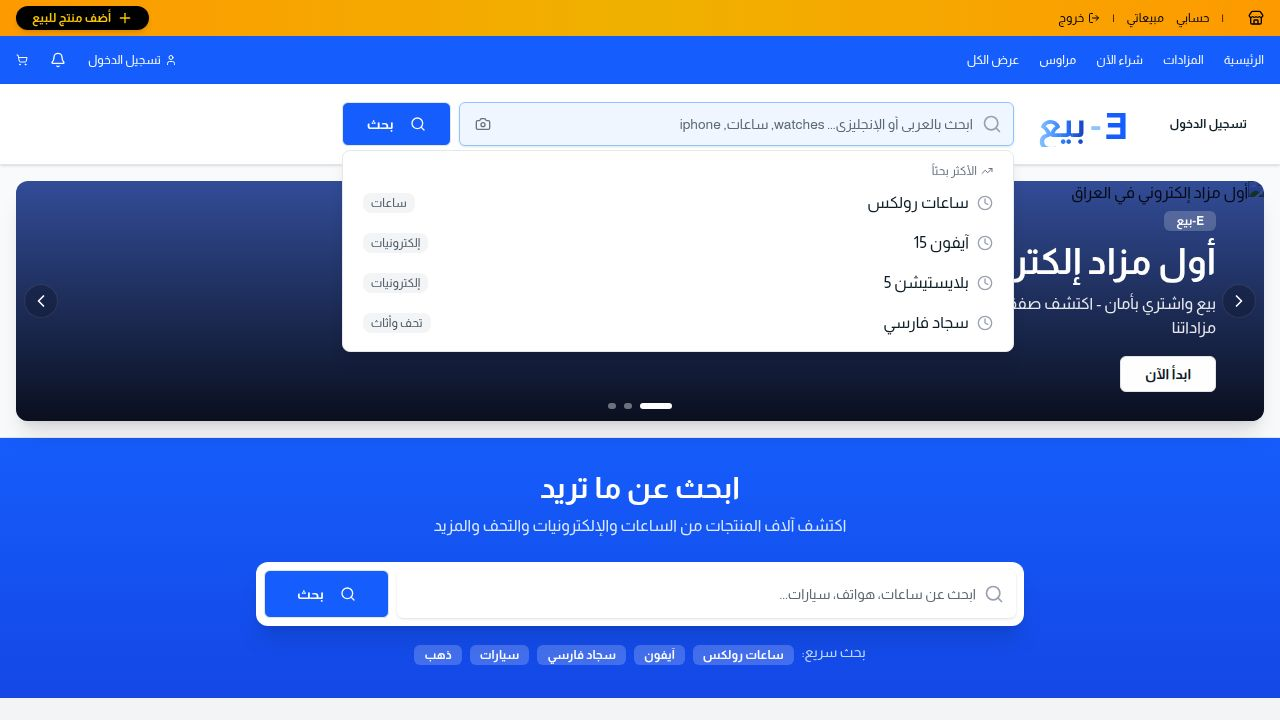
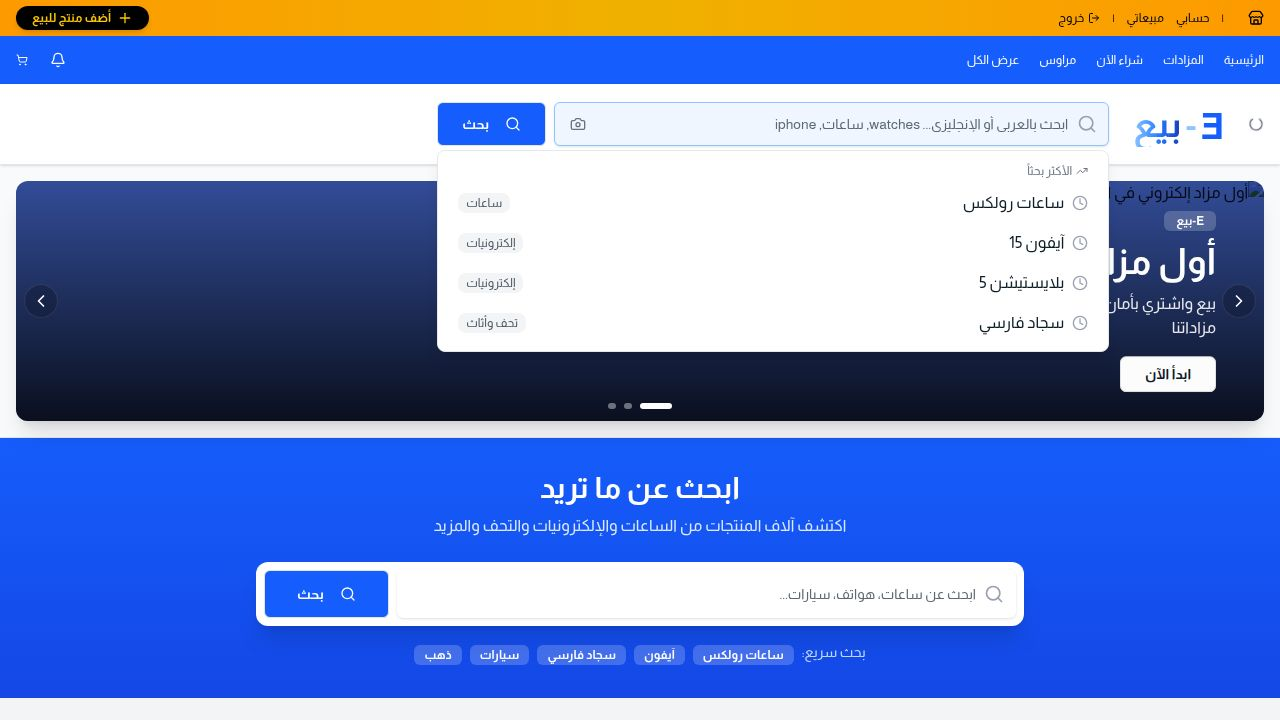
Make links to seller items live and improve search relevance
Update product page to link seller names to their item listings, add relevance-based sorting to search results, and display seller store information on the search page when viewing a specific seller's items.

Replit-Commit-Author: Agent
Replit-Commit-Session-Id: 0b8878ef-5561-4639-8c50-19dc5eeba3c8
Replit-Commit-Checkpoint-Type: intermediate_checkpoint
Replit-Commit-Event-Id: 922a6ef3-4065-40b5-9841-d5baf874f9f7
Replit-Commit-Screenshot-Url: https://storage.googleapis.com/screenshot-production-us-central1/2e607e21-532b-495b-8d75-179bb2556e64/0b8878ef-5561-4639-8c50-19dc5eeba3c8/ImRHm7c
Replit-Helium-Checkpoint-Created: true

diff --git a/client/src/pages/search.tsx b/client/src/pages/search.tsx
@@ -75,12 +75,36 @@ const CITIES = [
 ];
 
 const SORT_OPTIONS = [
+  { value: "relevance", label: "الأكثر صلة" },
   { value: "newest", label: "الأحدث" },
   { value: "price_low", label: "السعر: من الأقل للأعلى" },
   { value: "price_high", label: "السعر: من الأعلى للأقل" },
   { value: "ending_soon", label: "ينتهي قريباً" },
   { value: "most_bids", label: "الأكثر مزايدة" },
 ];
+
+function calculateRelevanceScore(product: Listing, query: string): number {
+  if (!query) return 0;
+  const q = query.toLowerCase();
+  let score = 0;
+  
+  const title = (product.title || "").toLowerCase();
+  if (title === q) score += 100;
+  else if (title.startsWith(q)) score += 80;
+  else if (title.includes(q)) score += 60;
+  
+  const tags = product.tags || [];
+  if (tags.some((tag: string) => tag.toLowerCase() === q)) score += 50;
+  else if (tags.some((tag: string) => tag.toLowerCase().includes(q))) score += 30;
+  
+  if ((product.category || "").toLowerCase().includes(q)) score += 20;
+  if ((product.description || "").toLowerCase().includes(q)) score += 10;
+  
+  score += ((product as any).viewCount || 0) * 0.01;
+  score += ((product as any).totalBids || 0) * 0.5;
+  
+  return score;
+}
 
 interface FilterState {
   category: string | null;
@@ -107,16 +131,32 @@ export default function SearchPage() {
   });
   
   const [draftFilters, setDraftFilters] = useState<FilterState>(appliedFilters);
-  const [sortBy, setSortBy] = useState("newest");
+  const [sortBy, setSortBy] = useState(searchQuery ? "relevance" : "newest");
   const [isFilterOpen, setIsFilterOpen] = useState(false);
 
+  const sellerIdParam = params.get("sellerId");
+  
   const { data: listingsData, isLoading } = useQuery({
-    queryKey: ["/api/listings"],
+    queryKey: ["/api/listings", sellerIdParam],
     queryFn: async () => {
-      const res = await fetch("/api/listings?limit=100");
+      const url = sellerIdParam 
+        ? `/api/listings?limit=100&sellerId=${sellerIdParam}`
+        : "/api/listings?limit=100";
+      const res = await fetch(url);
       if (!res.ok) throw new Error("Failed to fetch listings");
       return res.json();
     },
+  });
+  
+  const { data: sellerInfo } = useQuery({
+    queryKey: ["/api/users", sellerIdParam],
+    queryFn: async () => {
+      if (!sellerIdParam) return null;
+      const res = await fetch(`/api/users/${sellerIdParam}`);
+      if (!res.ok) return null;
+      return res.json();
+    },
+    enabled: !!sellerIdParam,
   });
   
   const listings: Listing[] = Array.isArray(listingsData) 
@@ -199,6 +239,19 @@ export default function SearchPage() {
 
     const sortedProducts = [...products];
     switch (sortBy) {
+      case "relevance":
+        if (searchQuery) {
+          sortedProducts.sort((a, b) => 
+            calculateRelevanceScore(b, searchQuery) - calculateRelevanceScore(a, searchQuery)
+          );
+        } else {
+          sortedProducts.sort((a, b) => {
+            const dateA = a.createdAt ? new Date(a.createdAt).getTime() : 0;
+            const dateB = b.createdAt ? new Date(b.createdAt).getTime() : 0;
+            return dateB - dateA;
+          });
+        }
+        break;
       case "price_low":
         sortedProducts.sort((a, b) => (a.currentBid || a.price) - (b.currentBid || b.price));
         break;
@@ -338,6 +391,29 @@ export default function SearchPage() {
   return (
     <Layout>
       <div className="container mx-auto px-4 py-6">
+        {/* Seller Store Header */}
+        {sellerIdParam && sellerInfo && (
+          <div className="bg-gradient-to-l from-blue-500 to-blue-600 text-white rounded-xl p-6 mb-6 shadow-md">
+            <div className="flex items-center gap-4">
+              <div className="w-16 h-16 bg-white/20 rounded-full flex items-center justify-center text-2xl font-bold">
+                {sellerInfo.displayName?.charAt(0) || sellerInfo.username?.charAt(0) || "م"}
+              </div>
+              <div className="flex-1">
+                <h2 className="text-xl font-bold">متجر {sellerInfo.displayName || sellerInfo.username}</h2>
+                <div className="flex items-center gap-4 mt-1 text-blue-100 text-sm">
+                  {sellerInfo.totalSales > 0 && (
+                    <span>{sellerInfo.totalSales} عملية بيع</span>
+                  )}
+                  {sellerInfo.ratingCount > 0 && (
+                    <span>{Math.round(sellerInfo.rating || 0)}% تقييم إيجابي</span>
+                  )}
+                  <span>{filteredProducts.length} منتج</span>
+                </div>
+              </div>
+            </div>
+          </div>
+        )}
+
         {/* Quick Filters Bar */}
         <div className="flex flex-wrap items-center gap-2 mb-4 pb-4 border-b">
           <span className="text-sm font-medium text-muted-foreground ml-2">تصفية سريعة:</span>

diff --git a/client/src/pages/product.tsx b/client/src/pages/product.tsx
@@ -1,5 +1,5 @@
 import { useState, useEffect, useRef } from "react";
-import { useRoute, useLocation } from "wouter";
+import { useRoute, useLocation, Link } from "wouter";
 import { useQuery, useMutation, useQueryClient } from "@tanstack/react-query";
 import { Layout } from "@/components/layout";
 import { Button } from "@/components/ui/button";
@@ -512,17 +512,22 @@ export default function ProductPage() {
           {product.title}
         </h1>
 
-        {/* Seller Info Row */}
-        <div className="flex items-center gap-3 py-3 border-b">
-          <div className="w-10 h-10 bg-gray-200 rounded-full flex items-center justify-center text-gray-500 font-bold text-sm">
+        {/* Seller Info Row - Clickable to seller store */}
+        <Link 
+          href={`/search?sellerId=${listing?.sellerId}`}
+          className="flex items-center gap-3 py-3 border-b hover:bg-gray-50 transition-colors cursor-pointer group"
+          data-testid="link-seller-store"
+        >
+          <div className="w-10 h-10 bg-gray-200 rounded-full flex items-center justify-center text-gray-500 font-bold text-sm group-hover:bg-primary group-hover:text-white transition-colors">
             {product.seller?.name?.charAt(0) || "ب"}
           </div>
           <div className="flex-1">
             <div className="flex items-center gap-2">
-              <span className="font-semibold text-sm">{product.seller?.name || product.sellerName || "بائع"}</span>
+              <span className="font-semibold text-sm group-hover:text-primary transition-colors">{product.seller?.name || product.sellerName || "بائع"}</span>
               {(product.seller?.salesCount || 0) > 0 && (
                 <span className="text-xs text-gray-500">({product.seller?.salesCount})</span>
               )}
+              <span className="text-xs text-primary opacity-0 group-hover:opacity-100 transition-opacity">عرض المتجر ←</span>
             </div>
             <div className="flex items-center gap-1 text-xs text-gray-500">
               {(product.seller?.ratingCount || 0) > 0 ? (
@@ -537,11 +542,11 @@ export default function ProductPage() {
             </div>
           </div>
           {!isOwnProduct && (
-            <Button variant="ghost" size="icon" className="text-gray-400">
+            <Button variant="ghost" size="icon" className="text-gray-400" onClick={(e) => e.stopPropagation()}>
               <Send className="h-5 w-5" />
             </Button>
           )}
-        </div>
+        </Link>
 
         {/* Price Section */}
         <div className="py-4 border-b">

diff --git a/client/src/components/layout.tsx b/client/src/components/layout.tsx
@@ -179,10 +179,10 @@ export function Layout({ children }: { children: React.ReactNode }) {
             <Logo className="h-12 md:h-14" />
           </Link>
 
-          {/* Smart Search Bar - Left side in RTL */}
+          {/* Smart Search Bar - Always visible */}
           <SmartSearch 
             onImageSearchClick={() => setImageSearchOpen(true)}
-            className="hidden md:flex flex-1 max-w-2xl gap-2 items-center ml-auto"
+            className="flex flex-1 max-w-2xl gap-2 items-center ml-auto"
           />
         </div>
       </header>
